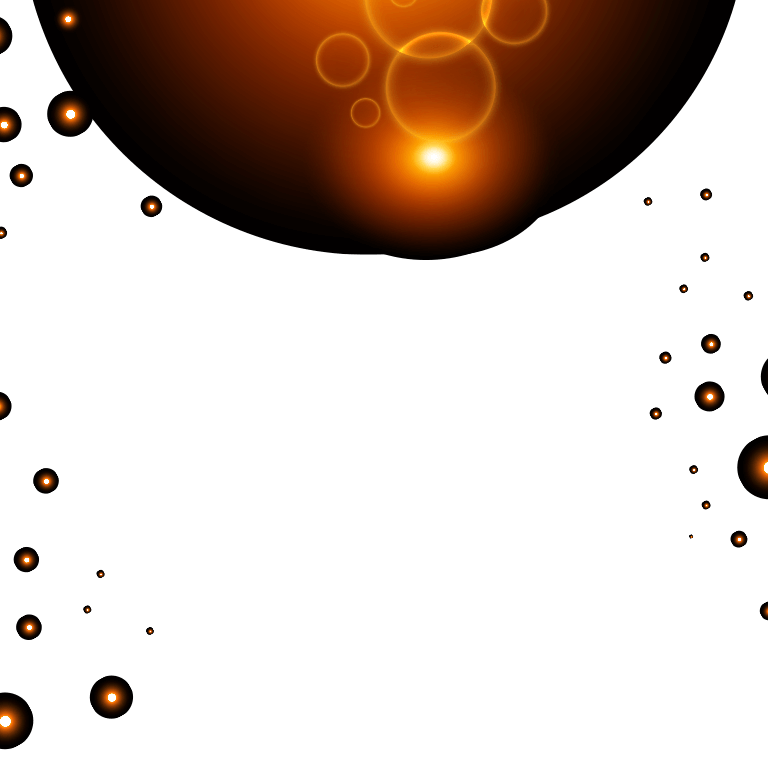
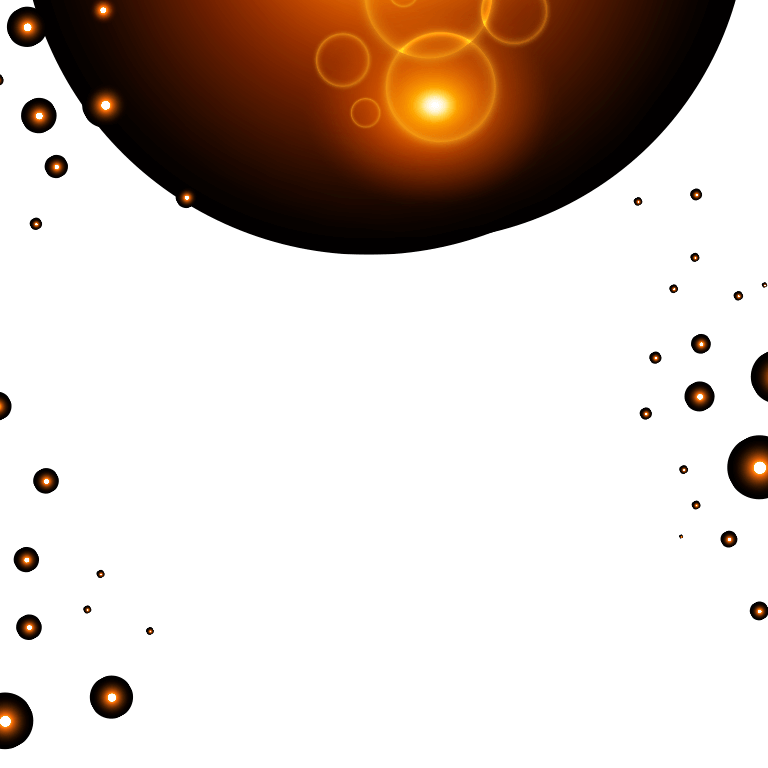
modified

diff --git a/css/style.sass b/css/style.sass
@@ -492,13 +492,23 @@ ul
         padding: 3rem 4rem
         .title
             margin-top: .8rem
-            font-size: 1.2rem
+            font-size: 1.6rem
             letter-spacing: 2px
-            font-weight: 400
-            color: rgba(#fff,0.9)
+            font-weight: bold
+            color: #ffffff
+        .each-annouce
+            padding: 5px 0 0 18px
         ul
             li
                 margin: .8rem 0
+                &::before
+                    content: ''
+                    display: inline-block
+                    +size(5px)
+                    border-radius: 50%
+                    background-color: #ffffffdb
+                    vertical-align: middle
+                    margin-right: 10px
 /*-- footer--*/
 .footer
     background: url('../images/events/bottom.png') top center no-repeat
@@ -544,12 +554,14 @@ ul
         height: 735px
         .background, .glow, .character, .character-right, .treasure, .ribbon, .banner-slogan-cn, .banner-slogan-en, .banner-slogan-id, .banner-slogan-jp, .banner-slogan-kr, .banner-slogan-th, .banner-slogan-tw, .banner-slogan-vn, .connect-part
             height: 735px
+        .glow
+            .cristal2
+                left: -2%
 @media screen and ( max-width: 1200px )
     .site-main-wrapper .pc-mode 
         height: 565px
         .background, .glow, .character, .character-right, .treasure, .ribbon, .banner-slogan-cn, .banner-slogan-en, .banner-slogan-id, .banner-slogan-jp, .banner-slogan-kr, .banner-slogan-th, .banner-slogan-tw, .banner-slogan-vn, .connect-part
             height: 565px
-        .glow
     .prize-box
         top: -7rem
         .treasure-container
@@ -660,23 +672,25 @@ ul
                 height: 100%
                 // background: url('../images/events/cristal_mb.png') top center no-repeat
                 background-size: 100%
+                z-index: 10
                 .cristal1
-                    right: -6%
+                    right: -8%
                     bottom: 16%
                     width: 100px
                     animation-direction: normal
                 .cristal2
                     left: -5%
                     bottom: 30%
-                    width: 130px
+                    width: 70px
                     animation-delay: -1s
                     animation-direction: normal
                 .cristal3
-                    right: 2%
+                    right: -4%
                     top: 33%
                     width: 40px
                 .cristal4
-                    right: -8%
+                    right: -13%
+                    top: 0%
             .character
                 position: absolute
                 width: 100%
@@ -697,7 +711,7 @@ ul
                 background-size: 100%
             .ribbonStart
                 animation: moveLight_mb 5s both infinite
-                animation-delay: 800ms
+                animation-delay: 1000ms
             .connect-part
                 position: absolute
                 width: 100%
@@ -806,7 +820,7 @@ ul
         top: initial
     .main
         position: relative
-        margin: 0 10px
+        margin: 10px
     .prize-box 
         .treasure-img-mb
             width: 65%
@@ -847,6 +861,8 @@ ul
             width: 100%
             padding: 1rem 1.2rem
             flex-direction: column
+            .each-annouce
+                padding: 0
             ul
                 margin: 0
                 li
@@ -879,6 +895,7 @@ ul
             width: 210px
         .text-prize h4
             font-size: 9vw
+
     .switch-list
         margin: .5rem
         ul
@@ -886,3 +903,5 @@ ul
                 &::after
                     width: 100%
                 a
+    .site-main-wrapper .pc-mode .glow
+        z-index: 0            

diff --git a/css/style.css b/css/style.css
@@ -735,14 +735,29 @@ ul {
 
 .annoucement .desc .title {
   margin-top: .8rem;
-  font-size: 1.2rem;
+  font-size: 1.6rem;
   letter-spacing: 2px;
-  font-weight: 400;
-  color: rgba(255, 255, 255, 0.9);
+  font-weight: bold;
+  color: #ffffff;
+}
+
+.annoucement .desc .each-annouce {
+  padding: 5px 0 0 18px;
 }
 
 .annoucement .desc ul li {
   margin: .8rem 0;
+}
+
+.annoucement .desc ul li::before {
+  content: '';
+  display: inline-block;
+  width: 5px;
+  height: 5px;
+  border-radius: 50%;
+  background-color: #ffffffdb;
+  vertical-align: middle;
+  margin-right: 10px;
 }
 
 /*-- footer--*/
@@ -814,6 +829,9 @@ ul {
   }
   .site-main-wrapper .pc-mode .background, .site-main-wrapper .pc-mode .glow, .site-main-wrapper .pc-mode .character, .site-main-wrapper .pc-mode .character-right, .site-main-wrapper .pc-mode .treasure, .site-main-wrapper .pc-mode .ribbon, .site-main-wrapper .pc-mode .banner-slogan-cn, .site-main-wrapper .pc-mode .banner-slogan-en, .site-main-wrapper .pc-mode .banner-slogan-id, .site-main-wrapper .pc-mode .banner-slogan-jp, .site-main-wrapper .pc-mode .banner-slogan-kr, .site-main-wrapper .pc-mode .banner-slogan-th, .site-main-wrapper .pc-mode .banner-slogan-tw, .site-main-wrapper .pc-mode .banner-slogan-vn, .site-main-wrapper .pc-mode .connect-part {
     height: 735px;
+  }
+  .site-main-wrapper .pc-mode .glow .cristal2 {
+    left: -2%;
   }
 }
 
@@ -987,9 +1005,10 @@ ul {
     width: 100%;
     height: 100%;
     background-size: 100%;
+    z-index: 10;
   }
   .site-main-wrapper .pc-mode .glow .cristal1 {
-    right: -6%;
+    right: -8%;
     bottom: 16%;
     width: 100px;
     -webkit-animation-direction: normal;
@@ -998,19 +1017,20 @@ ul {
   .site-main-wrapper .pc-mode .glow .cristal2 {
     left: -5%;
     bottom: 30%;
-    width: 130px;
+    width: 70px;
     -webkit-animation-delay: -1s;
             animation-delay: -1s;
     -webkit-animation-direction: normal;
             animation-direction: normal;
   }
   .site-main-wrapper .pc-mode .glow .cristal3 {
-    right: 2%;
+    right: -4%;
     top: 33%;
     width: 40px;
   }
   .site-main-wrapper .pc-mode .glow .cristal4 {
-    right: -8%;
+    right: -13%;
+    top: 0%;
   }
   .site-main-wrapper .pc-mode .character {
     position: absolute;
@@ -1029,8 +1049,8 @@ ul {
   .site-main-wrapper .pc-mode .ribbonStart {
     -webkit-animation: moveLight_mb 5s both infinite;
             animation: moveLight_mb 5s both infinite;
-    -webkit-animation-delay: 800ms;
-            animation-delay: 800ms;
+    -webkit-animation-delay: 1000ms;
+            animation-delay: 1000ms;
   }
   .site-main-wrapper .pc-mode .connect-part {
     position: absolute;
@@ -1181,7 +1201,7 @@ ul {
   }
   .main {
     position: relative;
-    margin: 0 10px;
+    margin: 10px;
   }
   .prize-box .treasure-img-mb {
     width: 65%;
@@ -1243,6 +1263,9 @@ ul {
         -ms-flex-direction: column;
             flex-direction: column;
   }
+  .annoucement .desc .each-annouce {
+    padding: 0;
+  }
   .annoucement .desc ul {
     margin: 0;
   }
@@ -1293,6 +1316,9 @@ ul {
   }
   .switch-list ul li::after {
     width: 100%;
+  }
+  .site-main-wrapper .pc-mode .glow {
+    z-index: 0;
   }
 }
 /*# sourceMappingURL=style.css.map */

diff --git a/js/switch.js b/js/switch.js
@@ -60,24 +60,29 @@ animateTitle.classList.add('effect');
 })*/
 
 var scaleItem = document.querySelector('.bnTitle');
-anime({
-	targets: scaleItem,	
-	keyframes: [
-		{translateY: '-800'},
-		{perspective: 800},
-		{rotateX: 720},
-		{translateY: 0},		
-		{rotateX: 0},	
-	  ],
-	scale: [0,1],	
-	duration: 800,
-	easing: 'spring(1, 80, 10, 0)',
-	delay: 400,
-	complete: function () {
-        animationDone = true;
-		animateAdd();
-    }   
-  });
+var bodyWidth = screen.width;
+if(bodyWidth > 768){
+	var jumpAnime = anime({
+		targets: scaleItem,	
+		keyframes: [
+			{translateY: '-800'},
+			{perspective: 800},
+			{rotateX: 720},
+			{translateY: 0},		
+			{rotateX: 0},	
+		],
+		scale: [0,1],	
+		duration: 800,
+		easing: 'spring(1, 80, 10, 0)',
+		delay: 400,
+		complete: function () {
+			animationDone = true;
+			animateAdd();
+		}   
+	});
+}else{
+	anime.remove(scaleItem);
+}
 
 function animateAdd(){
 	scaleItem.classList.add('effect');

diff --git a/css/animate.css b/css/animate.css
@@ -295,7 +295,7 @@
   }
   20% {
     left: 0;
-    transform: translateX(500px);
+    transform: translateX(470px);
     filter: brightness(120%);
     opacity: 1;    
   }
@@ -319,7 +319,7 @@
   }
   20% {
     left: 0;
-    transform: translateX(150px);
+    transform: translateX(170px);
     filter: brightness(120%);
     opacity: 1;    
   }
